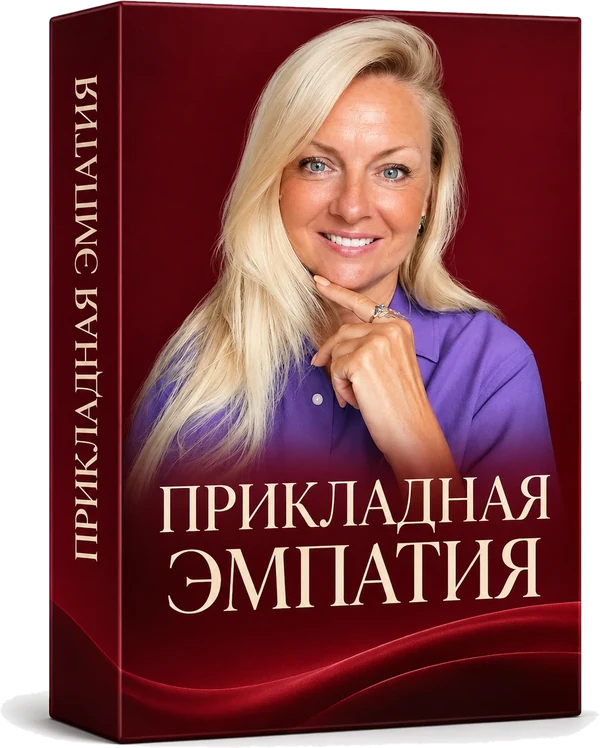
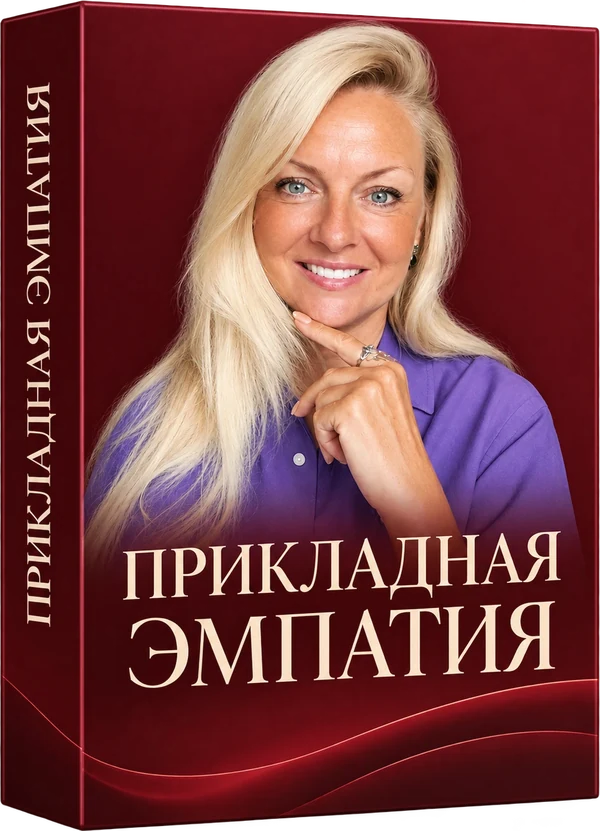
/pe/: «Что входит» на тёмной сцене (коробка, объём цифрами, цена с рассрочкой), новая коробка, фото Виолы в «Об авторе»
Claude-Session: https://claude.ai/code/session_01Q9fjv94Ha91cWURBJeAJ2v

diff --git a/miniapps/pe/index.html b/miniapps/pe/index.html
@@ -553,11 +553,12 @@ body.g-lock { overflow: hidden; }
 .pe-otz-img { margin: 0 0 16px; background: #fff; border-radius: 24px; padding: 18px 18px 14px; break-inside: avoid; }
 .pe-otz-img img { display: block; width: 100%; height: auto; }
 /* об авторе */
-.pe-about { display: grid; gap: 32px; align-items: center; }
-.pe-foto-ph { aspect-ratio: 1 / 1; border-radius: 24px; background: #2A272B; }
+.pe-about { display: grid; gap: 24px; align-items: start; }
+.pe-about .pe-h2 { margin-bottom: 0 !important; }
+.pe-foto { display: block; width: 100%; height: auto; border-radius: 24px; }
 .gl .pe-name { margin: 0 0 18px; font: 800 28px/1.2 'Golos Text', system-ui, sans-serif; }
 .pe-about-t .pe-list li { font-size: 18px; line-height: 1.55; color: rgba(255,255,255,.92); margin-top: 14px; }
-@media (min-width: 760px) { .pe-about { grid-template-columns: 420px 1fr; gap: 56px; } }
+@media (min-width: 760px) { .pe-about { grid-template-columns: 420px 1fr; column-gap: 56px; row-gap: 24px; } .pe-about .pe-h2 { grid-column: 2; grid-row: 1; align-self: end; } .pe-foto { grid-column: 1; grid-row: 1 / span 2; } .pe-about-t { grid-column: 2; grid-row: 2; } }
 /* вопросы */
 .pe-faq { background: #F3F2F0; border-radius: 24px; padding: 4px 24px; }
 .pe-q { border-top: 1px solid #DDD8D1; padding: 20px 0; }
@@ -567,25 +568,38 @@ body.g-lock { overflow: hidden; }
 .pe-q a { color: #C4142C; }
 /* техники тем сразу видны */
 .pe-tl { margin: 18px 0 0 !important; padding-top: 16px; border-top: 1px solid #E6E1DA; font: 800 13px/1 'Golos Text', system-ui, sans-serif !important; letter-spacing: .1em; text-transform: uppercase; color: #77717C; }
-/* тариф: без карточки, размеры как у timochko.ru/primer (цена 35 px, текст 14-16 px, имя 30 px) */
-.pe-tar { max-width: 560px; }
-.pe-box { display: block; width: 240px; height: auto; margin: 0 auto 28px; filter: drop-shadow(0 18px 20px rgba(28,26,29,.25)); }
-.pe-tar .pe-list { margin: 0; }
-.pe-tar .pe-list li { font-size: 16px; line-height: 1.4; margin-top: 12px; }
-.gl .pe-p1 { margin: 34px 0 0; text-align: center; font: 700 clamp(35px, 9vw, 44px)/1.1 'Golos Text', system-ui, sans-serif; letter-spacing: -.02em; color: #1C1A1D; }
-.gl .pe-p2 { margin: 8px 0 0; text-align: center; font-size: 16px; line-height: 1.4; font-weight: 500; color: #55505A; }
-.pe-tar .pe-btn { max-width: none; margin-top: 12px; }
-.pe-p2 + .pe-p2 { margin-top: 2px !important; }
+/* «Что входит» (25.11): тёмная сцена, коробка с подсветкой, объём цифрами, цена с якорем */
+.pe-offer { display: grid; gap: 28px; align-items: center; }
+.pe-offer-l { position: relative; text-align: center; padding: 10px 0; }
+.pe-offer-l::before { content: ""; position: absolute; left: 50%; top: 50%; width: 100%; max-width: 100vw; aspect-ratio: 1; transform: translate(-50%, -50%); border-radius: 50%;
+  background: radial-gradient(circle, rgba(196,20,44,.55) 0%, rgba(196,20,44,0) 62%); pointer-events: none; }
+.pe-box { position: relative; display: inline-block; width: min(260px, 70vw); height: auto; filter: drop-shadow(0 30px 40px rgba(0,0,0,.55)); }
+@media (min-width: 900px) { .pe-offer { grid-template-columns: 5fr 7fr; gap: 56px; } .pe-box { width: 100%; max-width: 420px; } }
+.pe-stats { list-style: none; margin: 0; padding: 0; display: grid; grid-template-columns: 1fr 1fr; gap: 12px; }
+.pe-stats li { padding: 18px 16px 16px; border-radius: 20px; background: #2A272B; }
+.pe-stats b { display: block; font: 700 54px/1 'Golos Text', system-ui, sans-serif; letter-spacing: -.03em; color: #fff; }
+.pe-stats span { display: block; margin-top: 8px; font-size: 15px; line-height: 1.35; color: rgba(255,255,255,.78); }
+.pe-plus { list-style: none; margin: 18px 0 0; padding: 0; }
+.pe-plus li { position: relative; padding: 10px 0 10px 30px; font-size: 16px; line-height: 1.4; color: rgba(255,255,255,.92); border-top: 1px solid rgba(255,255,255,.1); }
+.pe-plus li::before { content: "+"; position: absolute; left: 4px; top: 6px; font: 700 22px/1.2 'Golos Text', system-ui, sans-serif; color: #E2283F; }
+.pe-pricebox { margin-top: 26px; padding-top: 26px; border-top: 1px solid rgba(255,255,255,.18); }
+.gl .pe-p1 { margin: 0; display: flex; flex-wrap: wrap; align-items: center; gap: 10px 16px;
+  font: 700 clamp(48px, 13vw, 72px)/1 'Golos Text', system-ui, sans-serif; letter-spacing: -.03em; }
+.pe-pill { display: inline-block; padding: 8px 14px; border-radius: 999px; background: #C4142C; font: 700 15px/1.2 'Golos Text', system-ui, sans-serif; letter-spacing: 0; }
+.gl .pe-p2 { margin: 10px 0 0; font-size: 16px; font-weight: 600; }
+.gl .pe-anchor { margin: 14px 0 0; padding: 12px 14px; border-left: 3px solid #E2283F; background: rgba(255,255,255,.05); font-size: 15.5px; line-height: 1.45; }
+.pe-pricebox .pe-btn { max-width: none; margin-top: 12px; }
 .pe-p2 + .pe-btn { margin-top: 22px; }
-.gl .pe-fine { margin: 18px 0 0; text-align: center; font-size: 14px; line-height: 1.45; color: #77717C; }
+.pe-pricebox .pe-btn + .pe-btn { background: transparent; border: 2px solid #fff; color: #fff; }
+.pe-pricebox .pe-btn + .pe-btn:hover { background: #fff; color: #1C1A1D; }
+.gl .pe-fine { margin: 18px auto 0; max-width: 720px; text-align: center; font-size: 13.5px; line-height: 1.45; }
 /* общие стили сайта красят абзацы и заголовок блока #tarify в белый: возвращаем тёмный */
-#tarify.pe-sec { background: #fff !important; }
-.gl .pe-tn2 { font-family: 'Golos Text', system-ui, sans-serif !important; font-weight: 800 !important; text-transform: none !important; }
-#tarify .pe-h2, #tarify .pe-h2::first-line { color: #1C1A1D !important; }
-#tarify .pe-in p { color: inherit; }
-#tarify p.pe-p1 { color: #1C1A1D !important; }
-#tarify p.pe-p2 { color: #55505A !important; }
-#tarify p.pe-fine { color: #77717C !important; }
+#tarify.pe-sec { background: #1C1A1D !important; overflow: hidden; }
+#tarify .pe-h2, #tarify .pe-h2::first-line { color: #fff !important; }
+#tarify p.pe-p1 { color: #fff !important; }
+#tarify p.pe-p2 { color: rgba(255,255,255,.75) !important; }
+#tarify p.pe-anchor { color: rgba(255,255,255,.9) !important; }
+#tarify p.pe-fine { color: rgba(255,255,255,.5) !important; }
 /* плашка с ценой на первом экране телефона: длинная строка переносится, а не обрезается */
 [data-h2-chips] span { white-space: normal !important; text-align: center; border-radius: 18px !important; margin: 0 16px; }
 @media (max-width: 759px) { .g-bar-posle { font-size: 13px; line-height: 1.25; } }
@@ -671,20 +685,24 @@ body.g-bar-on { padding-bottom: 80px !important; }
   
 </article></div><p class="pe-pod">В каждой теме лекция Виолы с таймкодами, техники на конкретные ситуации, задание и PDF-методичка. Техниками можно пользоваться прямо в тот момент, когда ситуация происходит. Все материалы открываются сразу после оплаты, доступ навсегда.</p><a class="pe-btn" href="#tarify">Получить доступ</a></div></section>
 <section class="pe-sec pe-grey" id="otzyvy" data-blok="Отзывы"><div class="pe-in"><h2 class="pe-h2">Отзывы участниц</h2><div class="pe-otz-grid"><figure class="pe-otz-img"><img src="img/otz-5.webp" alt="Отзыв участницы: «Благодаря курса узнала больше о себе и об особенностях своей личности, как эмпата, с которой нужно не бороться, а принять в себе. За 6 недель начала ощущать, как намного легче жить»" loading="lazy" decoding="async"></figure><figure class="pe-otz-img"><img src="img/otz-6.webp" alt="Отзыв участницы: «Что я получила после первых техник: спокойствие, уверенность, лёгкость. Техники Виолы - это рабочий инструмент для очищения экрана жизни от помех»" loading="lazy" decoding="async"></figure><figure class="pe-otz-img"><img src="img/otz-11.webp" alt="Отзыв участницы: «На протяжении этих шести недель я была в другом измерении. Невероятно грамотно и жизненно важно были проведены все уроки. Практики, методички прописаны понятным языком»" loading="lazy" decoding="async"></figure><figure class="pe-otz-img"><img src="img/otz-2.webp" alt="Отзыв участницы: «Сейчас на курсе меня очень поразили темы про личность эмпата, интуицию, порядок и методики взаимодействия с токсичными людьми, расхламление. Прорабатываю все Ваши методички и практики»" loading="lazy" decoding="async"></figure><figure class="pe-otz-img"><img src="img/otz-3.webp" alt="Отзыв участницы: «Я очень рада, что я на курсе Прикладная эмпатия. Столько практической пользы и жизненных правил именно для эмпатов я узнала»" loading="lazy" decoding="async"></figure><figure class="pe-otz-img"><img src="img/otz-4.webp" alt="Отзыв участницы: «Техника с дыханием на самом деле работает. Начинаю потихоньку расхламлять свою жизнь. Я даже стала немного спокойнее»" loading="lazy" decoding="async"></figure><figure class="pe-otz-img"><img src="img/otz-13.webp" alt="Отзыв участницы: «На протяжении шести недель каждый четверг был для меня как маленький праздник, где подарками были бесценные знания и инсайты»" loading="lazy" decoding="async"></figure><figure class="pe-otz-img"><img src="img/otz-1.webp" alt="Отзыв участницы: «Как Вы вчера рассказывали, так оно и было. Когда все пазлы сошлись в полную картину, стало легче»" loading="lazy" decoding="async"></figure><figure class="pe-otz-img"><img src="img/otz-8.webp" alt="Отзыв участницы: «Вчерашняя лекция - это было что-то. Такого психолога днём с огнём не найти. Для нас эмпатов это как воздух и вода»" loading="lazy" decoding="async"></figure><figure class="pe-otz-img"><img src="img/otz-12.webp" alt="Отзыв участницы: «Много десятилетий работы с психологами не дали того, что даёте Вы. Мне было важно это услышать - жёсткая граница, а не намёки»" loading="lazy" decoding="async"></figure><figure class="pe-otz-img"><img src="img/otz-10.webp" alt="Отзыв участницы: «Вопросы других дают мне ощущение что ты не один пытающийся разобраться в своей жизни и со своими ситуациями и это придаёт сил»" loading="lazy" decoding="async"></figure><figure class="pe-otz-img"><img src="img/otz-7.webp" alt="Отзыв участницы: «Мне приятно ПОНИМАНИЕ эмпатов, жалость и сострадание к нежной природе души. Использую приемы и развиваю их»" loading="lazy" decoding="async"></figure><figure class="pe-otz-img"><img src="img/otz-14.webp" alt="Отзыв участницы: «Нет слов, чтобы выразить все эмоции. Огромная благодарность Вам Виола и Вашей команде»" loading="lazy" decoding="async"></figure><figure class="pe-otz-img"><img src="img/otz-9.webp" alt="Отзыв участницы: «Благодарность и признательность, Виола дорогая! Искренние слова и чувства между эмпатами радуют и наполняют»" loading="lazy" decoding="async"></figure></div><a class="pe-btn" href="#tarify">Получить доступ</a></div></section>
-<section class="pe-sec pe-dark" id="o-viole" data-blok="Об авторе"><div class="pe-in"><div class="pe-about"><!-- ФОТО: место под другое фото Виолы (пришлёт Илья). Заменить div на
-         <img src="..." alt="Виола Маро" width="900" height="900" loading="lazy" decoding="async"> -->
-<div class="pe-foto-ph" role="img" aria-label="Место под фото Виолы Маро"></div><div class="pe-about-t"><h2 class="pe-h2">Об авторе</h2><p class="pe-name">Виола Маро</p><ul class="pe-list "><li>Дипломированный психолог (СПбГУ), психотерапевт по образованию и по призванию. 25 лет профессиональной практики.</li><li>Идеолог и популяризатор концепции практической эмпатии — это ключевое направление её работы и основа авторской линейки образовательных продуктов.</li><li>Создатель обучающих программ в области психологии отношений и самореализации.</li><li>Гуманист по призванию и «технарь» в психологии — совмещает глубокую эмпатию с чёткой, системной методологией.</li></ul></div></div></div></section>
+<section class="pe-sec pe-dark" id="o-viole" data-blok="Об авторе"><div class="pe-in"><div class="pe-about"><h2 class="pe-h2">Об авторе</h2><img class="pe-foto" src="img/viola-avtor.webp" alt="Виола Маро" width="720" height="900" loading="lazy" decoding="async"><div class="pe-about-t"><p class="pe-name">Виола Маро</p><ul class="pe-list "><li>Дипломированный психолог (СПбГУ), психотерапевт по образованию и по призванию. 25 лет профессиональной практики.</li><li>Идеолог и популяризатор концепции практической эмпатии — это ключевое направление её работы и основа авторской линейки образовательных продуктов.</li><li>Создатель обучающих программ в области психологии отношений и самореализации.</li><li>Гуманист по призванию и «технарь» в психологии — совмещает глубокую эмпатию с чёткой, системной методологией.</li></ul></div></div></div></section>
 <section class="pe-sec pe-grey" id="pochemu" data-blok="Почему не помогли книги и психологи"><div class="pe-in pe-narrow"><h2 class="pe-h2">Почему не помогли книги и психологи</h2><p class="pe-big">Вы уже читали книги, ходили к психологу, проходили курсы. Становилось понятнее, но не легче. Никто не объяснил, почему вы так остро чувствуете людей и что делать в ту минуту, когда на вас давят</p><p class="pe-big">С этого программа и начинается. Виола объясняет, как вы устроены, и даёт техники на ситуации, которые с вами уже происходят</p><a class="pe-btn" href="#tarify">Получить доступ</a></div></section>
-<section class="pe-sec pe-white" id="tarify" data-blok="Что входит">
-  <div class="pe-in pe-tar">
-    <h2 class="pe-h2 pe-center">Что входит</h2>
-    <img class="pe-box" src="img/box.webp" alt="Коробка курса «Прикладная Эмпатия»" width="600" height="748">
-    <ul class="pe-list pe-tl2"><li>6 лекций Виолы с таймкодами</li><li>23 прикладные техники на конкретные ситуации</li><li>6 заданий, чтобы отработать техники на своей ситуации</li><li>6 PDF-методичек</li><li>Аудиомедитации Виолы</li><li>База ответов Виолы на реальные ситуации участниц прошлых потоков: что ответить мужу, маме, начальнику</li><li>Все материалы в закрытом Телеграм-канале и в MAX, доступ навсегда</li></ul>
-    <p class="pe-p1">14&nbsp;900&nbsp;₽</p>
-    <p class="pe-p2">или от 1&nbsp;242&nbsp;₽ в месяц</p>
-    <p class="pe-p2">€160 зарубежной картой</p>
-    <button type="button" class="pe-btn" data-pay="pe" data-cur="rub">Оплатить картой РФ</button>
-    <button type="button" class="pe-btn" data-pay="pe" data-cur="eur">Оплатить картой другой страны</button>
+<section class="pe-sec pe-dark" id="tarify" data-blok="Что входит">
+  <div class="pe-in">
+    <div class="pe-offer">
+      <div class="pe-offer-l"><img class="pe-box" src="img/box.webp" alt="Коробка курса «Прикладная Эмпатия»" width="600" height="748"></div>
+      <div class="pe-offer-r">
+        <h2 class="pe-h2">Что входит</h2>
+        <ul class="pe-stats"><li><b>6</b><span>лекций Виолы с таймкодами</span></li><li><b>23</b><span>прикладные техники на конкретные ситуации</span></li><li><b>6</b><span>заданий, чтобы отработать техники на своей ситуации</span></li><li><b>6</b><span>PDF-методичек</span></li></ul>
+        <ul class="pe-plus"><li>Аудиомедитации Виолы</li><li>База ответов Виолы на реальные ситуации участниц прошлых потоков: что ответить мужу, маме, начальнику</li><li>Все материалы в закрытом Телеграм-канале и в MAX, доступ навсегда</li></ul>
+        <div class="pe-pricebox">
+          <p class="pe-p1">14&nbsp;900&nbsp;₽ <span class="pe-pill">или от 1&nbsp;242&nbsp;₽ в месяц</span></p>
+          <p class="pe-p2">€160 зарубежной картой</p>
+          <button type="button" class="pe-btn" data-pay="pe" data-cur="rub">Оплатить картой РФ</button>
+          <button type="button" class="pe-btn" data-pay="pe" data-cur="eur">Оплатить картой другой страны</button>
+        </div>
+      </div>
+    </div>
     <p class="pe-fine">Рассрочка на 3, 6 или 12 месяцев без процентов, первый платёж через месяц. Рассрочка банка доступна гражданам стран СНГ по паспорту, 18+</p>
     <p class="pe-fine">Доступ придёт сразу после оплаты: в закрытый канал в Телеграме и в MAX, ссылка продублируется на почту. Оплата и чек от ИП Нижевясова А.&nbsp;С., официального организатора программ Виолы.</p>
   </div>
